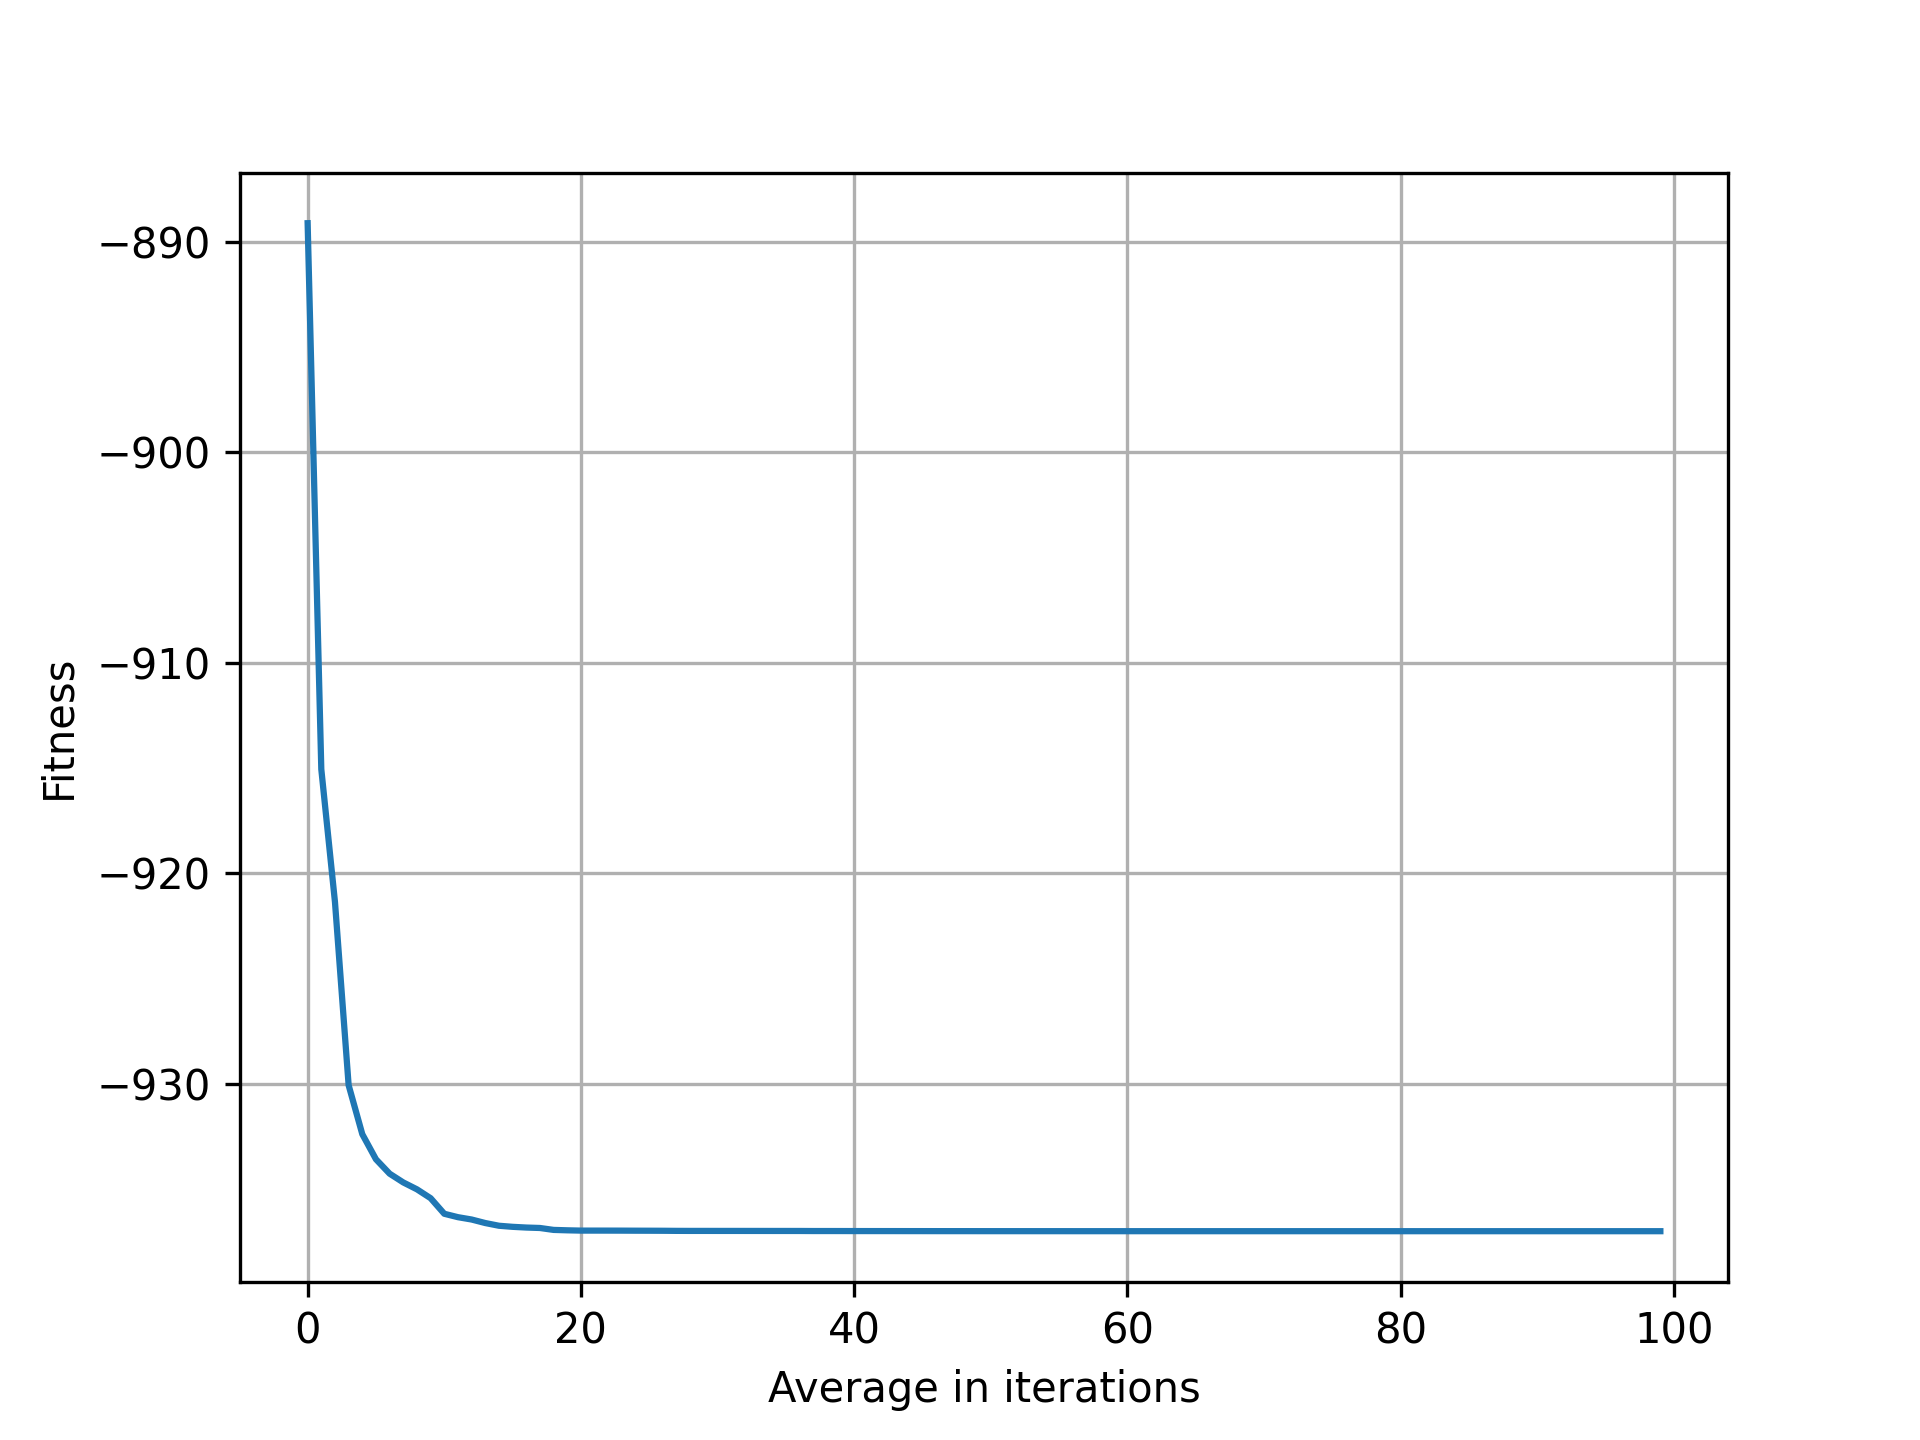
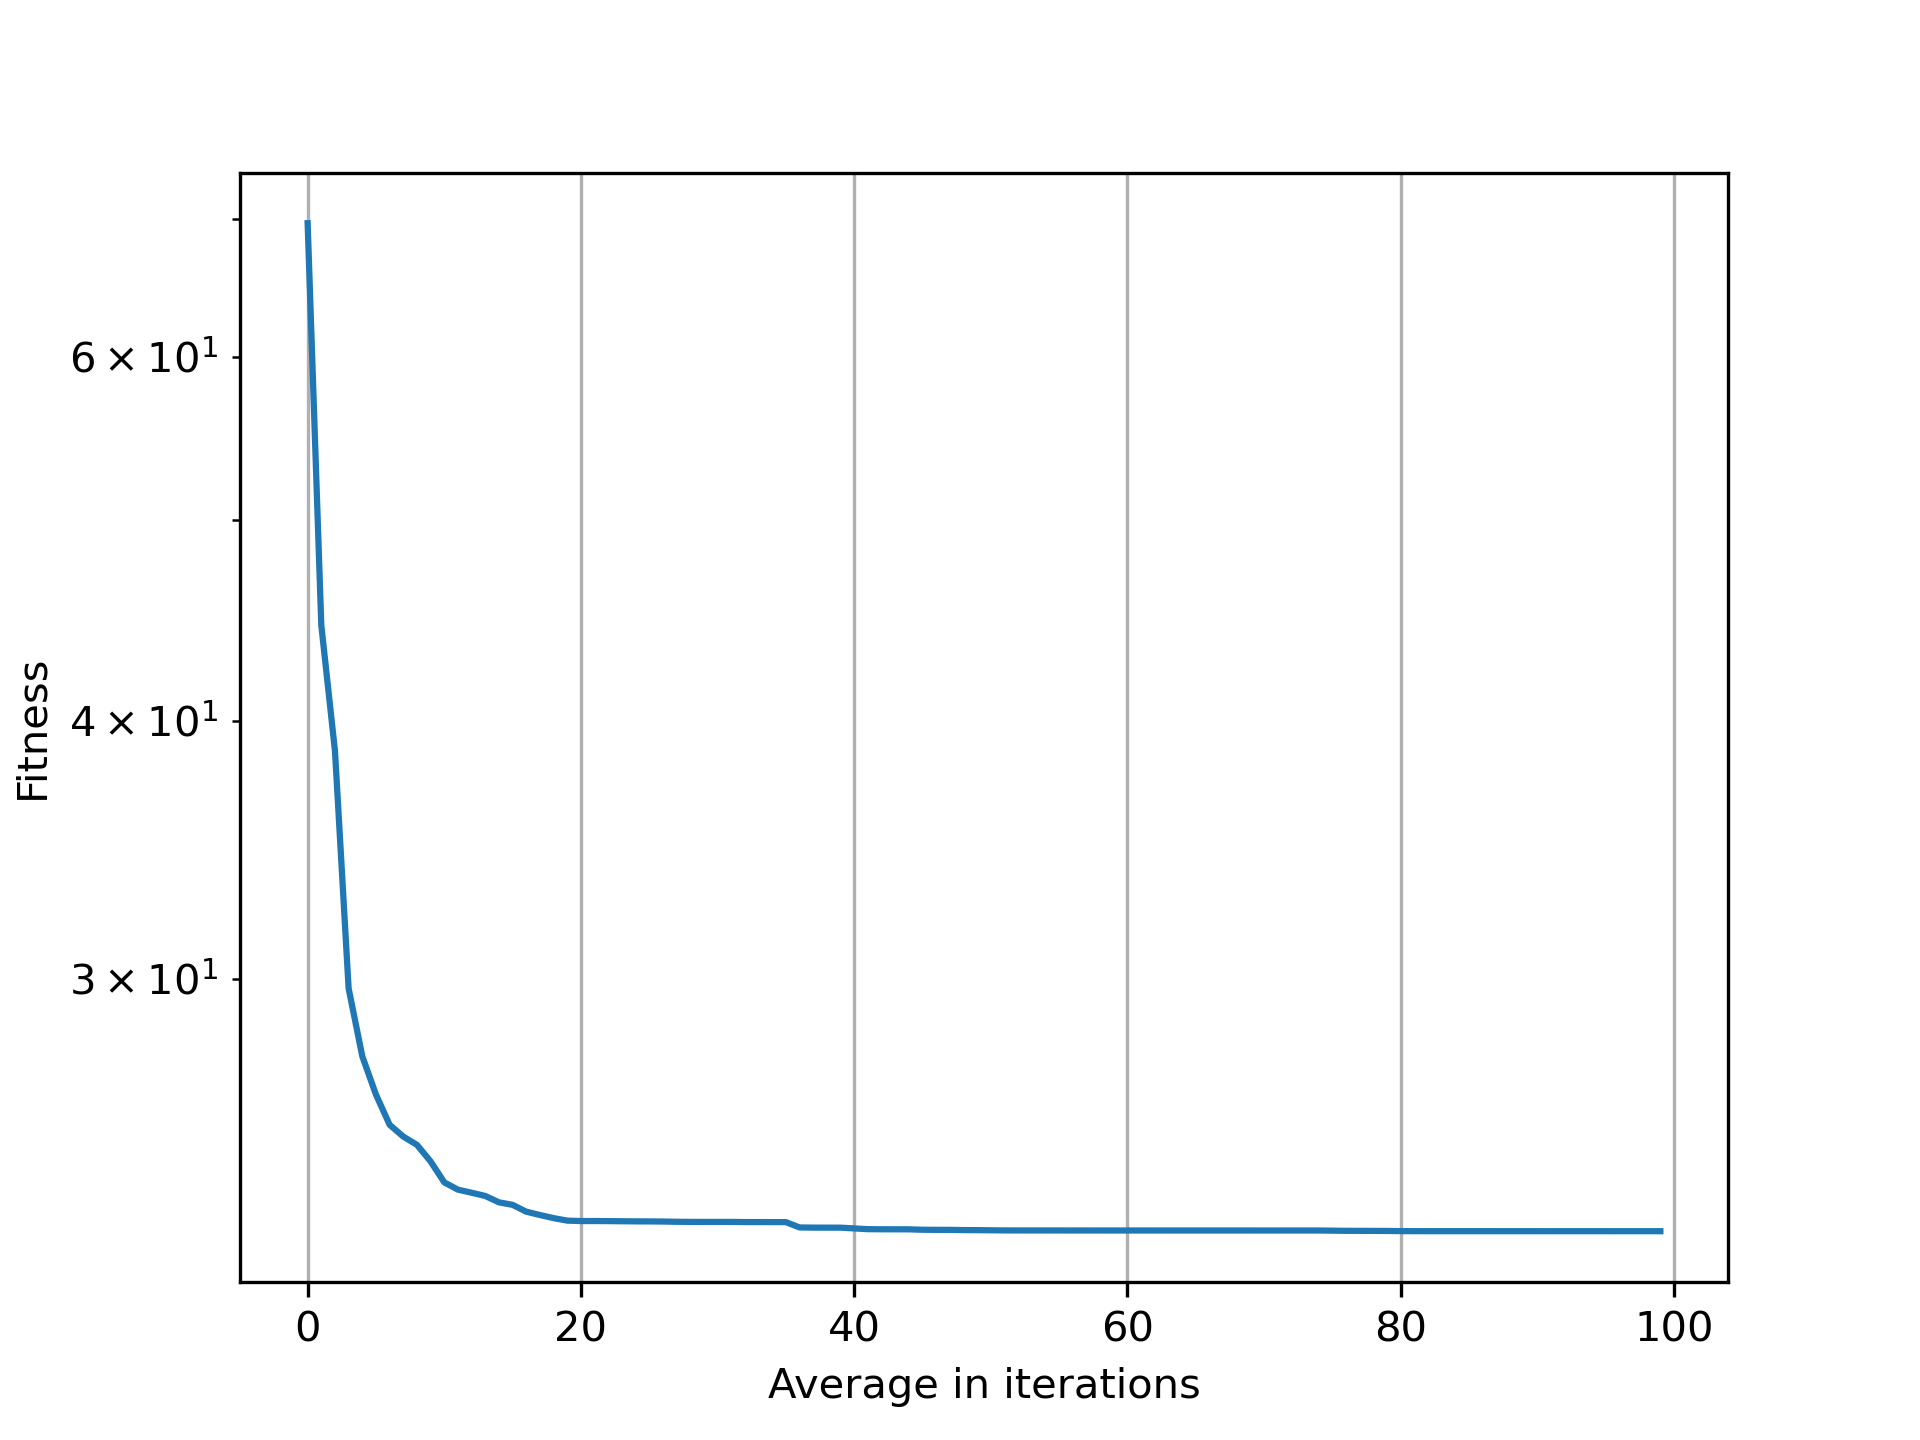
Experiments 15 april 22

diff --git a/papergraphics.py b/papergraphics.py
@@ -1,0 +1,50 @@
+"""
+Paper graphics from numpy files
+Date: 15-April-2022
+"""
+import numpy as np
+import matplotlib.pyplot as plt
+
+woa_function_schaffer = np.load("woa.npy")
+woa_function_eggholder = np.load("woa2.npy")
+woa_watts_strogatz_graph_function_schaffer = np.load("woawsr.npy")
+woa_watts_strogatz_graph_function_eggholder = np.load("woawsr2.npy")
+
+plt.figure(dpi=300)
+plt.title("Function Shaffer")
+
+plt.grid()
+plt.xlabel("Iteration")
+plt.ylabel("Fitness")
+
+plt.plot(woa_function_schaffer,label="WOA")
+plt.plot(woa_watts_strogatz_graph_function_schaffer,label="small-world graph")
+plt.yscale("log")
+plt.legend()
+plt.savefig("function_schaffer.png")
+
+plt.figure(dpi=300)
+plt.title("Function Eggholder")
+plt.grid()
+plt.xlabel("Iteration")
+plt.ylabel("Fitness")
+
+plt.plot(woa_function_eggholder,label="WOA")
+plt.plot(woa_watts_strogatz_graph_function_eggholder,label="small-world graph")
+plt.yscale("log")
+plt.legend()
+plt.savefig("function_eggholder.png")
+
+
+plt.figure(dpi=300)
+plt.title("Comparations functions")
+plt.grid()
+plt.xlabel("Iteration")
+plt.ylabel("Fitness")
+plt.plot(woa_function_eggholder,'g-',label="Eggholder WOA")
+plt.plot(woa_watts_strogatz_graph_function_eggholder,'b-',label="Eggholder small-world graph")
+plt.plot(woa_function_schaffer,'g--',label="Schaffer WOA",)
+plt.plot(woa_watts_strogatz_graph_function_schaffer,'b--',label="Schaffer small-world graph")
+plt.yscale("log")
+plt.legend()
+plt.savefig("all_functions.png")

diff --git a/testWoa.py b/testWoa.py
@@ -36,6 +36,7 @@ for i in range(number_experiments):
     matrix[i,:] = best_array
     
 average = np.average(matrix, axis=0)
+average = np.abs(-959.6407-average)
 np.save("woa2", average)
 plt.figure(dpi=300)
 plt.grid()
@@ -43,6 +44,6 @@ plt.xlabel("Average in iterations")
 plt.ylabel("Fitness")
 
 plt.plot(average)
-#plt.yscale("log")
+plt.yscale("log")
 #plt.show()
 plt.savefig("woa2.png")

diff --git a/testWoaWSR.py b/testWoaWSR.py
@@ -41,12 +41,13 @@ for i in range(number_experiments):
     matrix[i,:] = best_array
     
 average = np.average(matrix, axis=0)
+average = np.abs(-959.6407-average)
 np.save("woawsr2", average)
 plt.figure(dpi=300)
 plt.grid()
 plt.xlabel("Average in iterations")
 plt.ylabel("Fitness")
-
+plt.yscale("log")
 plt.plot(average)
 #plt.show()
 plt.savefig("woa2WSR.png")
